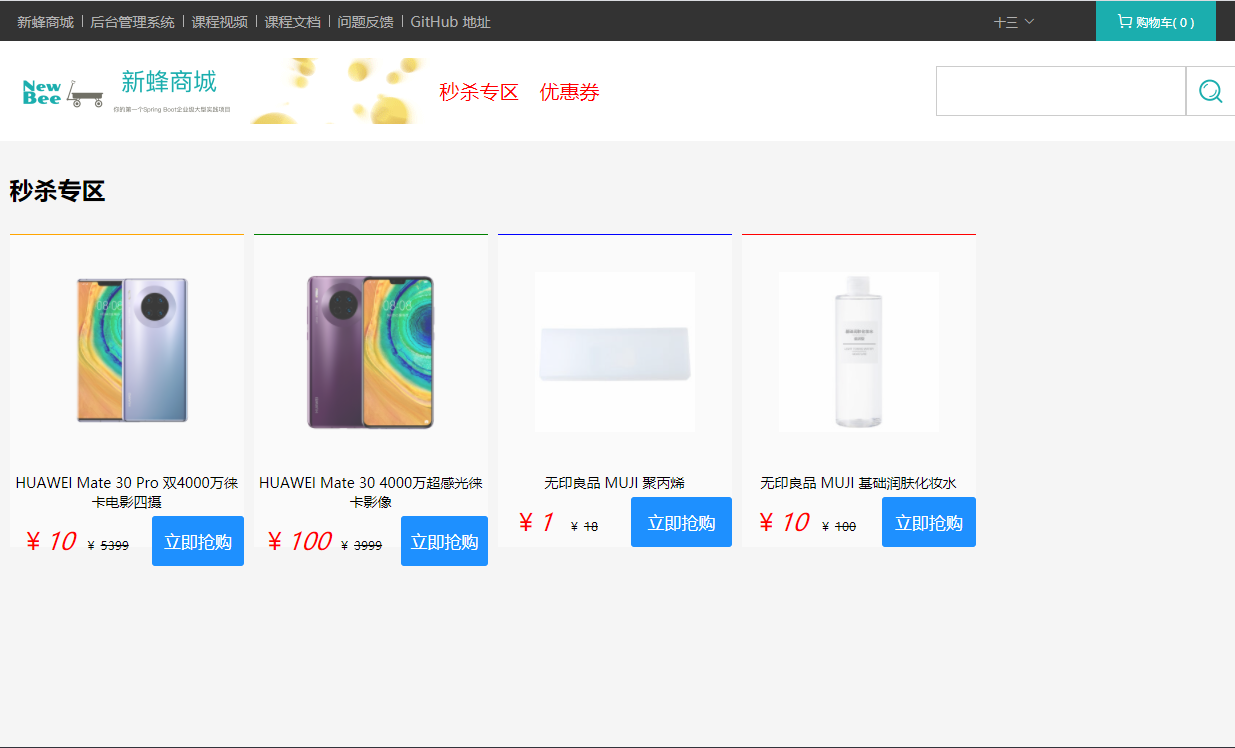
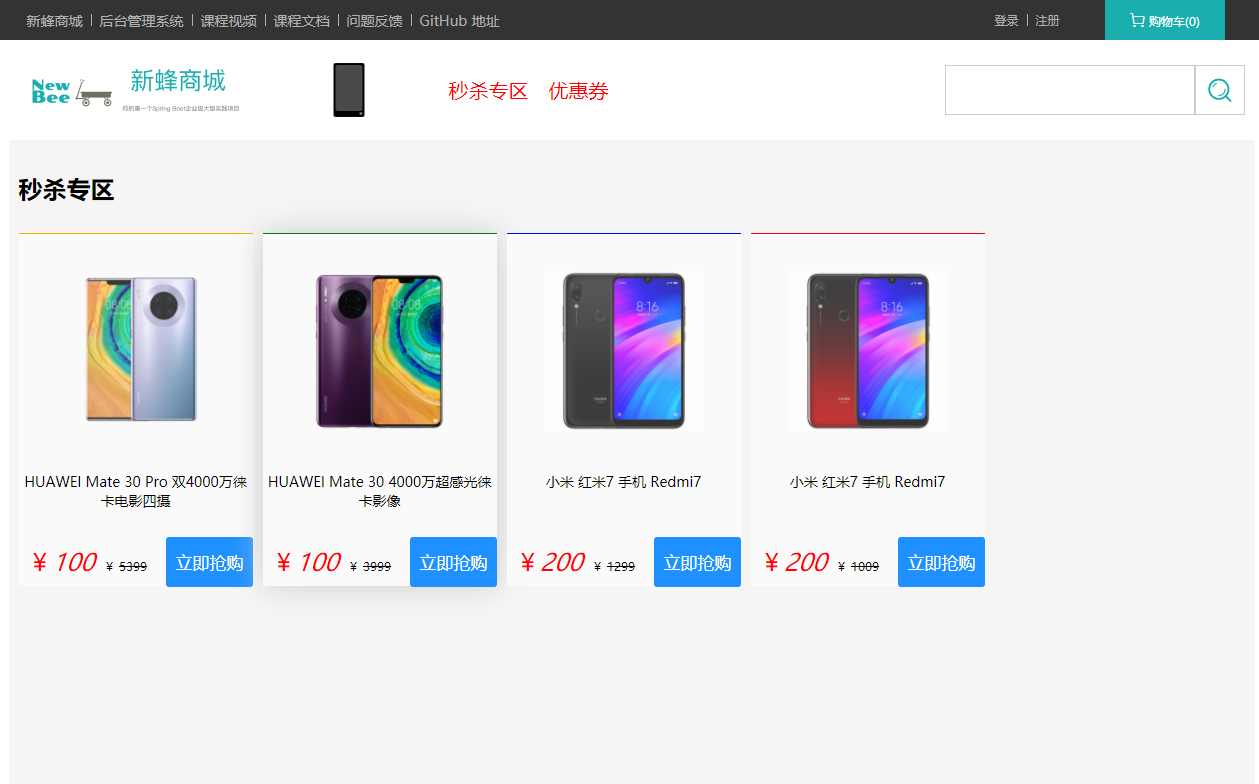
feat(商城): 修改readme

diff --git a/src/main/resources/static/mall/styles/index.css b/src/main/resources/static/mall/styles/index.css
@@ -546,7 +546,7 @@
 
 #content #seckill ul li {
     width: 234px;
-    height: 312px;
+    height: 352px;
     background-color: #fafafa;
     border-top: 1px solid #ffa500;
     margin: 15px 10px 0 0;
@@ -578,6 +578,10 @@
     text-align: center;
 }
 
+#content #seckill ul li a .name {
+    height: 40px;
+}
+
 #content #seckill ul li a img {
     width: 160px;
     height: 160px;
@@ -594,7 +598,7 @@
 
 #content #seckill ul li a .priceMod {
     display: flex;
-    margin: 5px 0 0 0;
+    margin: 25px 0 0 0;
     height: 50px;
 }
 
